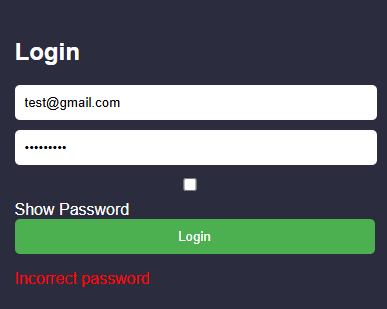
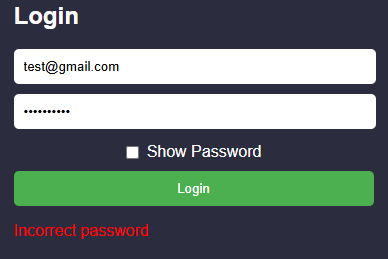
fixed show pw structure

diff --git a/templates/index.html b/templates/index.html
@@ -13,7 +13,7 @@
             <h2>Login</h2>
             <input type="email" id="loginEmail" placeholder="Email">
             <input type="password" id="loginPassword" placeholder="Password">
-            <label>
+            <label class="password-toggle">
                 <input type="checkbox" onclick="togglePassword('loginPassword')">
                 Show Password
             </label>
@@ -26,8 +26,8 @@
             <input type="email" id="regEmail" placeholder="Email">
             <input type="password" id="regPassword" placeholder="Password">
             <input type="password" id="regConfirmPassword" placeholder="Confirm Password">
-            <button onclick="generatePassword()">Generate Password</button>
-            <label>
+            <button class="generate-btn" onclick="generatePassword()">Generate Password</button>
+            <label class="password-toggle register-toggle">
                 <input type="checkbox" onclick="togglePassword(['regPassword', 'regConfirmPassword'])">
                 Show Password
             </label>

diff --git a/static/style.css b/static/style.css
@@ -19,7 +19,9 @@ body {
     border-radius: 8px;
 }
 
-input {
+input[type="email"],
+input[type="password"],
+input[type="text"] {
     width: 95%;
     padding: 10px;
     margin-bottom: 10px;
@@ -39,4 +41,28 @@ button {
 
 button:hover {
     background: #45a049;
+}
+
+input[type="checkbox"] {
+    width: auto;
+    margin: 0;
+    padding: 0;
+}
+
+.password-toggle {
+    display: flex;
+    justify-content: center;
+    align-items: center;
+    gap: 8px;
+    width: fit-content;
+    margin: 4px auto 10px auto;
+    cursor: pointer;
+}
+
+.register-toggle {
+    margin: 0px auto 10px auto;
+}
+
+.generate-btn {
+    margin-bottom: 10px;
 }
